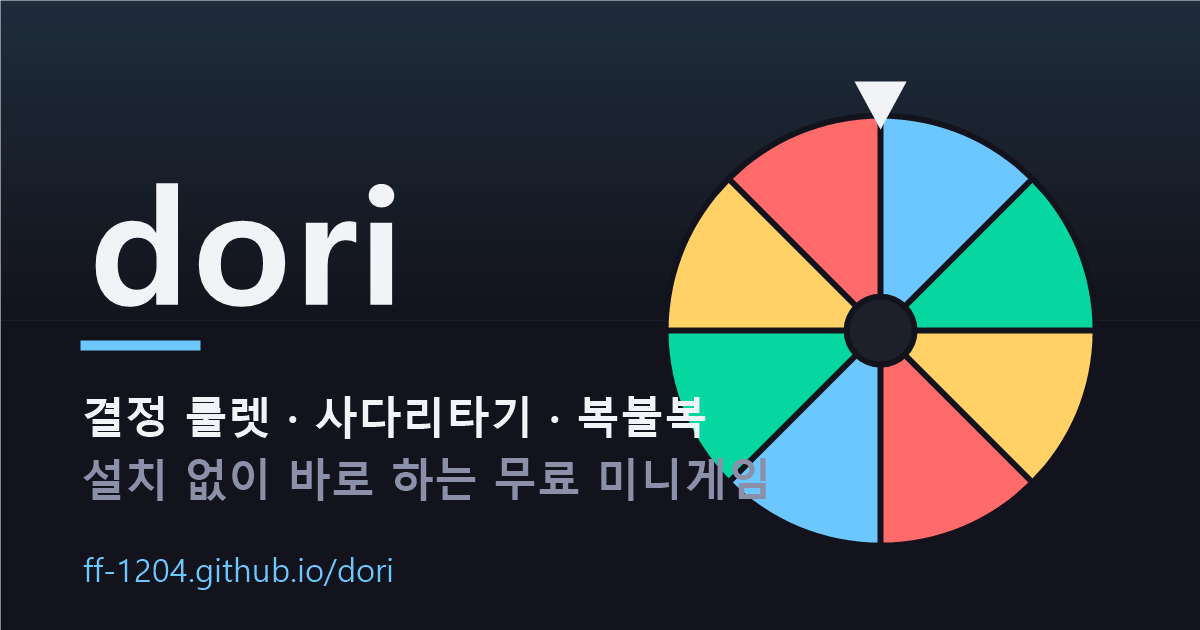
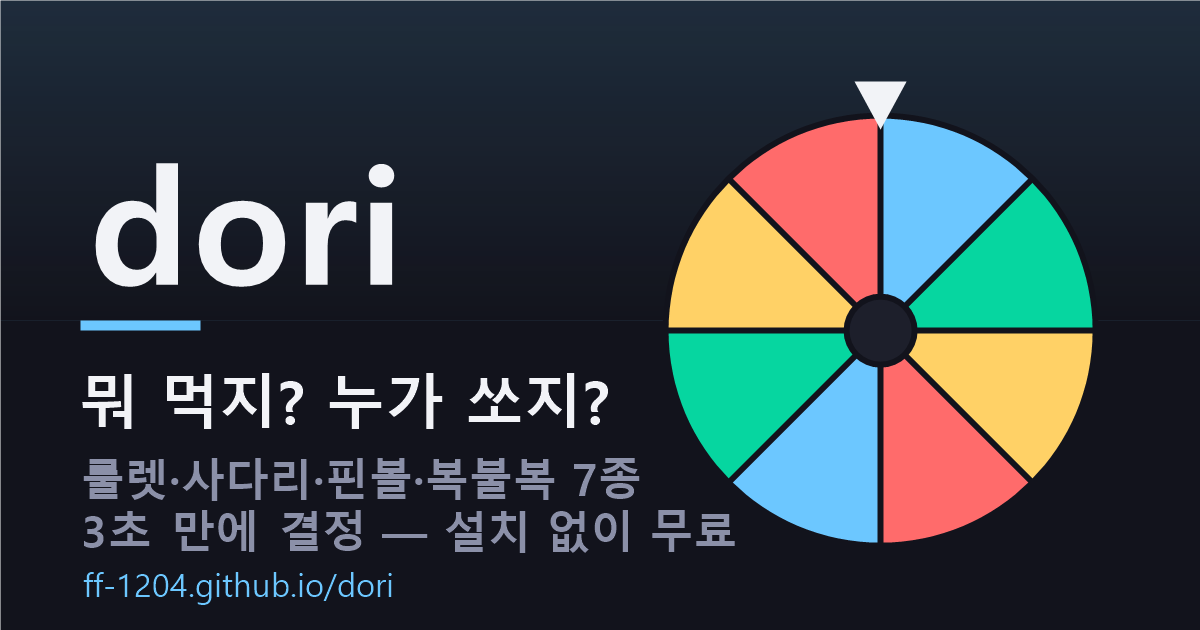
feat: 공유 이미지·메타 문구 개선
og.png를 질문형 후킹('뭐 먹지? 누가 쏘지?')과 7종 현황으로 재생성, description/og/twitter/JSON-LD 문구 통일

diff --git a/index.html b/index.html
@@ -6,14 +6,14 @@
 
   <!-- ===== SEO ===== -->
   <title>dori — 결정 룰렛·사다리타기·복불복 미니게임</title>
-  <meta name="description" content="점심 메뉴 룰렛, 사다리타기로 결정 고민 끝! 커피 내기·벌칙·당번 정하기까지, 설치 없이 바로 하는 무료 랜덤 미니게임 모음.">
+  <meta name="description" content="뭐 먹지? 누가 쏘지? 메뉴 룰렛·사다리타기·랜덤 핀볼·복불복 7종으로 3초 만에 결정 — 설치 없이 바로 하는 무료 미니게임.">
   <link rel="canonical" href="https://ff-1204.github.io/dori/">
 
   <!-- ===== 링크 공유 미리보기 (Open Graph / Twitter) ===== -->
   <meta property="og:type" content="website">
   <meta property="og:site_name" content="dori">
   <meta property="og:title" content="dori — 결정 룰렛·사다리타기·복불복 미니게임">
-  <meta property="og:description" content="점심 메뉴 룰렛, 사다리타기로 결정 고민 끝! 설치 없이 바로 하는 무료 랜덤 미니게임 모음.">
+  <meta property="og:description" content="뭐 먹지? 누가 쏘지? 룰렛·사다리·핀볼·복불복 7종으로 3초 만에 결정 — 설치 없이 무료.">
   <meta property="og:url" content="https://ff-1204.github.io/dori/">
   <meta property="og:locale" content="ko_KR">
   <meta property="og:image" content="https://ff-1204.github.io/dori/assets/og.png">
@@ -24,7 +24,7 @@
   <meta property="og:image:alt" content="dori — 결정 룰렛·사다리타기·복불복 미니게임">
   <meta name="twitter:card" content="summary_large_image">
   <meta name="twitter:title" content="dori — 결정 룰렛·사다리타기·복불복 미니게임">
-  <meta name="twitter:description" content="점심 메뉴 룰렛, 사다리타기로 결정 고민 끝! 설치 없이 바로 하는 무료 랜덤 미니게임 모음.">
+  <meta name="twitter:description" content="뭐 먹지? 누가 쏘지? 룰렛·사다리·핀볼·복불복 7종으로 3초 만에 결정 — 설치 없이 무료.">
   <meta name="twitter:image" content="https://ff-1204.github.io/dori/assets/og.png">
 
   <!-- 구조화 데이터(검색 결과 확장) -->
@@ -34,7 +34,7 @@
     "@type": "WebApplication",
     "name": "dori",
     "url": "https://ff-1204.github.io/dori/",
-    "description": "점심 메뉴 룰렛, 사다리타기 등 결정 돕기·랜덤 뽑기·복불복 무료 미니게임 모음",
+    "description": "메뉴 룰렛·사다리타기·랜덤 핀볼·복불복 등 결정 돕기 무료 미니게임 7종",
     "applicationCategory": "GameApplication",
     "operatingSystem": "Web",
     "inLanguage": "ko",